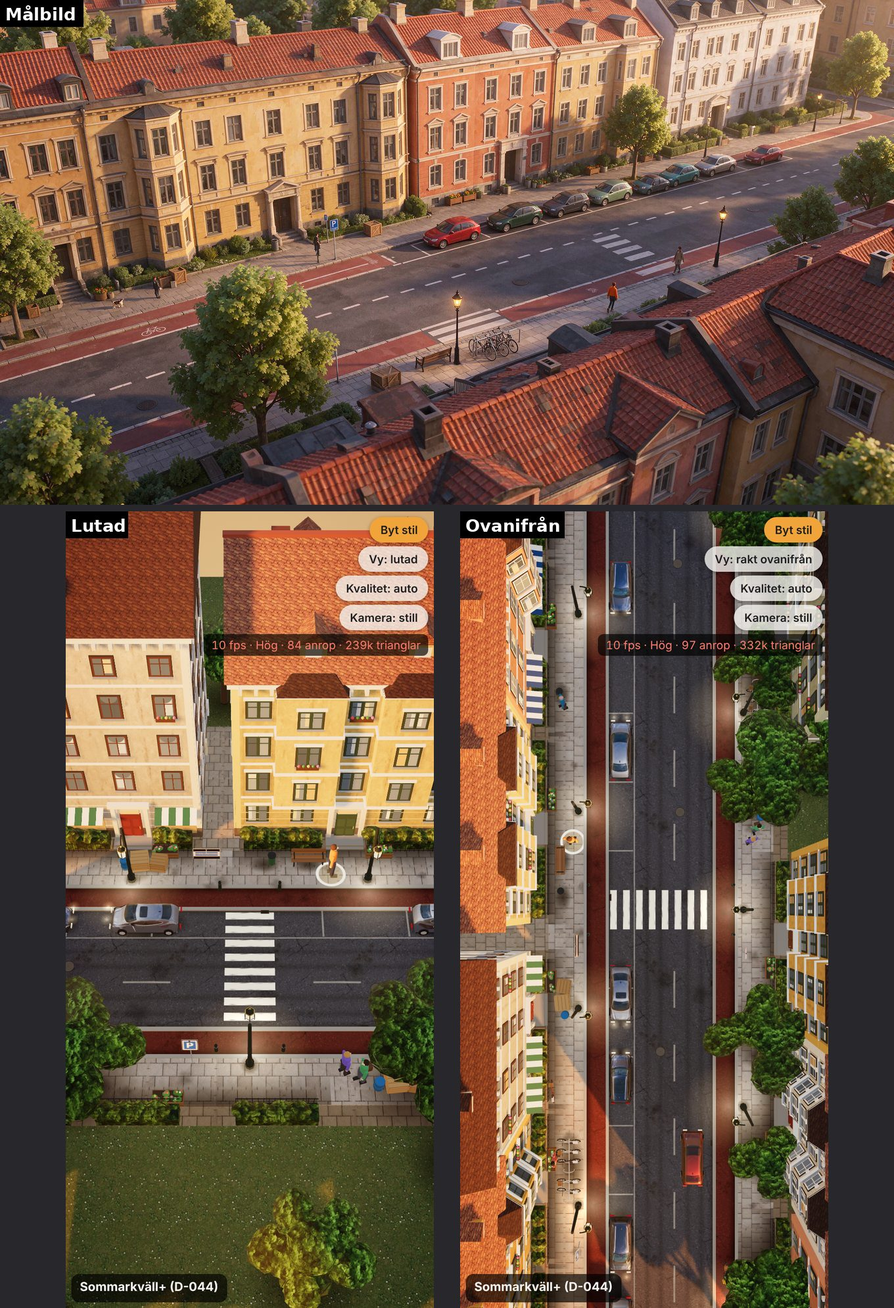
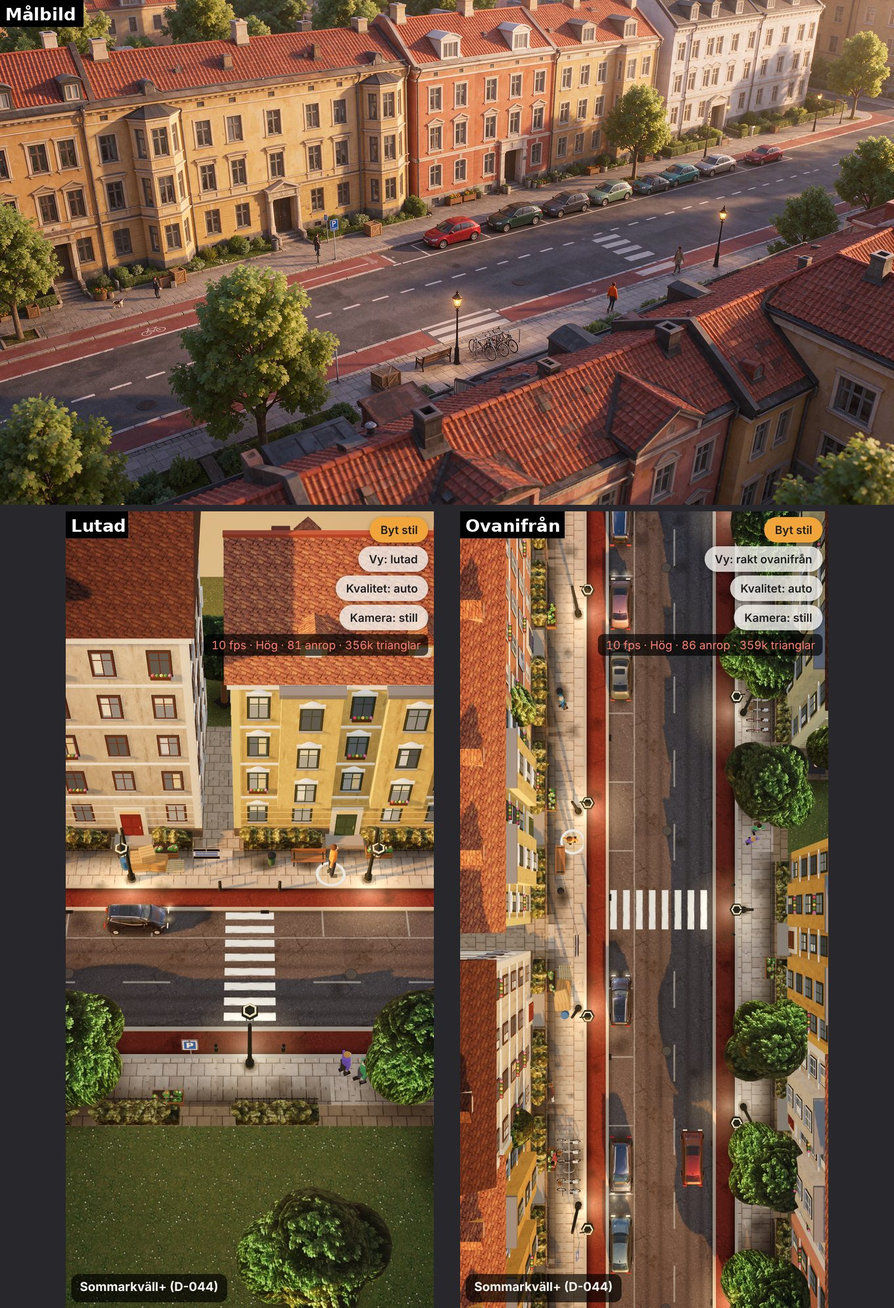
Graphics step 4: faster style test, built trees, deeper houses, golden light (D-047)
- Lighter props and people; triangles down from 357k to 240k. Steady
  frame time at 4x CPU throttle is 4-7 ms median (target under 17 ms).
- Trees built from trunk, branches and leaf clusters, shaded as one
  soft crown (bent normals; texture direction from a separate attribute).
- Angular or box bay windows with metal caps, laid out per house; four
  window types with different lintels; some lit windows; shop awnings;
  portals with pilasters and steps; smaller roof tiles.
- Classic lanterns, green dense hedges, warmer and lower sun, brighter
  fill light, softer shadow edges.
- Step 4 screenshots next to target picture 3, review scores and
  measurements; backlog gets the missing graphics rows and D-048.
- The game itself is unchanged.

Claude-Session: https://claude.ai/code/session_019KYzrBLZRE2h5GG2EY4uYQ

diff --git a/docs/HANDOFF.md b/docs/HANDOFF.md
@@ -39,6 +39,7 @@ Läs det här först, sedan `AGENTS.md` (hänvisning till agentreglerna) och `do
 
 ## Nuläge (2026-11-19)
 
+- **Grafik steg 4 (D-047):** stiltestet (`src/stiltest/rich.js`, `props3.js`) har lättare prylar och personer, träd byggda med stam, grenar och lövklungor som skuggas som en mjuk krona (`treeV2`), gröna täta häckar, klassiska lyktor, kantiga burspråk med plåttak (olika upplägg och form per hus), fyra fönstertyper med olika överstycken och några tända fönster, butiker med markiser, portar med pilastrar och trappsteg, mindre takpannor och mer gyllene sol från sydväst. Prestanda: processortiden per bild med 4× strypning är 4–7 ms i median när allt har laddats (mål under 17 ms); trianglarna minskade från 357 000 till 240 000. Siffran 29–45 ms i steg 3 mättes medan bilderna laddades in; under laddningen ligger det fortfarande kring 29 ms. Tre granskningsomgångar med de fasta kriterierna gav till sist 7, 5, 5, 6 och 6 poäng (mål 8). Hinder: personer, cyklar och träd byggda med kod når inte bilarnas klass, och riktiga CC0-modeller går inte att hämta (Kenney och Poly Pizza svarar 403, Quaternius ligger på Google Drive som inte är öppnat), se D-048. Skärmdumpar sida vid sida med målbilden i `docs/screenshots/stiltest/README.md`. Spelet är inte ändrat.
 - **Grafik steg 3 (D-045):** stiltestet har en lätt lutad kamera (33° från lodrätt, fast vinkel) som förval; rakt ovanifrån finns bakom knappen *Vy*. I lutad vy ritas inte husraden närmast kameran (den kastar fortfarande sin skugga), så gatan syns. Bilar har rundade 3D-kroppar med den genererade bilden ovanpå, hjul, trösklar och lampor; träd i tre sorter (lind, lönn, björk) med rundade kronor och stammar; lyktor, cyklar, cykelställ, skyltar, blomlådor, bänkar, lådor, räcken och personer är nya modeller (`src/stiltest/props3.js`). Fönster har karmar, spröjs, bleck, gardiner och blomlådor; takpannorna är mindre och mönstret bryts upp. Två nya målbilder (`malbild-3.jpg`, `malbild-4.jpg`). Fasta kriterier `docs/screenshots/stiltest/kriterier.md`; tre omgångar gav till sist 7, 5, 6, 5, 7 (mål 8). Start under 6 s uppnådd med små förhandsbilder och WebP, men processortiden per bild har ökat och måste bantas (D-046). Spelet är inte ändrat.
 - **Grafik steg 2 (D-044):** stiltestet har ett nytt förvalt läge, Sommarkväll+ (`src/stiltest/rich.js`, `look.js`), byggt mot en genererad målbild (`docs/screenshots/stiltest/malbild-*.jpg`): genererade texturer (asfalt, plattor, gräs, puts, takpannor, lövverk) och genererade bilar och trädkronor sedda uppifrån (`stiltest/tex/`), låg varm kvällssol med långa mjuka skuggor, inbakad mörkning, slitage, lampor som lyser upp marken, häckar, staket, blomlådor, lådor, cykelställ. De tre tecknade varianterna från D-043 finns kvar bakom knappen. Fem granskningsomgångar: slutpoäng 7, 6, 6, 6, 5 (mål 8). Hinder: (1) från rakt ovanifrån blir fasader och små saker (lyktor, cyklar, skyltar) svåra att läsa, målbilden är tagen snett; (2) målbilden är en fotorealistisk rendering som realtidsgrafik på mobil inte når utan riktiga modeller och färdigräknat ljus; (3) mobilbudgeten: nedladdningen är ungefär fyra gånger större och starten 13–15 s på långsamt nät; (4) granskarnas poäng varierar mellan omgångar. CC0-bibliotek (ambientCG, Poly Haven, Kenney, Quaternius) går inte att nå från arbetsmiljön. Spelet är inte ändrat.
 - **Stiltest (D-043):** https://badbagel47.github.io/fyriskaos/stiltest.html – ett Luthagen-kvarter i Three.js, low-poly och tecknat, i tre varianter (knapp), med fps-mätare och automatiska kvalitetslägen. Allt byggt med kod (`src/stiltest/`), paketerat med esbuild till `stiltest/app.js` (kör `npm run build:stiltest` efter ändringar). Stilbibel `docs/STYLE.md`, credits `CREDITS.md`, skärmdumpar och mätningar `docs/screenshots/stiltest/`. Oberoende granskning gjord och rättad; granskaren rekommenderar variant A. Spelet är inte ändrat. Väntar på ägarens val och prov i mobilen.
@@ -60,7 +61,7 @@ Läs det här först, sedan `AGENTS.md` (hänvisning till agentreglerna) och `do
 ## Engångsåtgärder
 
 - Klart (2026-11-17): GitHub Pages påslaget med källan GitHub Actions.
-- **Klart (2026-11-19): nätverket öppnat för fria bibliotek och kartdata** (ägaren godkände kortet). Nåbara: Poly Haven, ambientCG, Quaternius webbplats, OpenStreetMap-adresserna. Kenney och Poly Pizza svarar 403 till molnet (webbplatsernas egen spärr), Quaternius paket ligger på Google Drive (inte öppnat), Poly Havens träd är för tunga för mobil. Ursprunglig instruktion, för historik: Molnmiljön (som heter *Default*) har begränsat nätverk, och de här adresserna blockeras i dag. Gör så här en gång:
+- **Klart (2026-11-19): nätverket öppnat för fria bibliotek och kartdata** (ägaren godkände kortet). Nåbara: Poly Haven, ambientCG, Quaternius webbplats, OpenStreetMap-adresserna. Kenney och Poly Pizza svarar 403 till molnet (webbplatsernas egen spärr), Quaternius paket ligger på Google Drive (inte öppnat), Poly Havens träd är för tunga för mobil. Kartdata: `overpass-api.de` och `download.geofabrik.de` står i listan men bryter själva anslutningen från molnet (kontrollerat 2026-11-19); en annan spegel eller en kartfil som laddas upp behövs för F-005. Ursprunglig instruktion, för historik: Molnmiljön (som heter *Default*) har begränsat nätverk, och de här adresserna blockeras i dag. Gör så här en gång:
   1. Öppna sessionen i Claude-appen eller på https://claude.ai/code och tryck på miljöns namn *Default* i sessionens titelrad, sedan **Edit** (redigera).
   2. Under **Network access**, låt nivån vara **Limited** och låt rutan för pakethanterare (*Allow package managers*) vara ikryssad.
   3. Lägg till var och en av adresserna nedan under **Allowed domains** (en per rad):

diff --git a/docs/BACKLOG.md b/docs/BACKLOG.md
@@ -8,6 +8,8 @@ ID: en löpande serie, B- bugg, F- funktion, D- planering/design. Prioritet: Hö
 
 | ID | Prio | Status | Beskrivning |
 | --- | --- | --- | --- |
+| F-042 | Hög | Öppen | Spelet ritas i stilen från stiltestet (Sommarkväll+ med lutad kamera, D-047), med samma mobilkrav. |
+| D-048 | Medel | Öppen | Riktiga CC0-modeller för träd, personer och cyklar (Quaternius), för att nå 8 på träd och jämn detaljnivå. Kräver att Google Drive öppnas i nätverket (`drive.google.com`, `drive.usercontent.google.com`). |
 | F-005 | Medel | Öppen | Första riktiga området: centrum kring Fyrisån och Slottsbacken från OpenStreetMap, med vårdcentral, polis och ett första uppdrag. |
 | F-010 | Medel | Öppen | Seed: hela staden utgår från ett startnummer, så att båda spelarna får exakt samma stad. |
 | F-011 | Medel | Öppen | Död och vårdcentraler: återuppstå på en vårdcentral mot en kostnad, stjärnorna nollställs, kölapp med "Beräknad väntetid: 4 sek". I co-op ligger man först nere några sekunder och kan räddas. |
@@ -46,20 +48,28 @@ ID: en löpande serie, B- bugg, F- funktion, D- planering/design. Prioritet: Hö
 Ögonblicksbild; varje agent bygger sitt eget förslag från backloggen.
 
 - Prioriterat för: ägarens önskemål först, sedan designdokumentets plan.
-- **A** – starkaste modellen, hög nivå – Grafiken i spelet – bygger på D-043
-  - F-042 – Spelet ritas i den valda stilen från stiltestet, med samma mobilkrav.
-  - Fråga: Vilken variant i stiltestet? Rekommendation (också granskarens): A – Klassisk tecknad.
-- **B** – starkaste modellen, hög nivå – Första riktiga området – bygger på A – väntar på att kartdata går att hämta
+- **A** – starkaste modellen, hög nivå – Grafiken i spelet – bygger på D-047
+  - F-042 – Spelet ritas i stilen från stiltestet: Sommarkväll+ med lutad kamera, samma mobilkrav.
+  - Fråga: Räcker grafiken i stiltestet nu (granskarna gav 5–7 mot målet 8), eller först riktiga modeller (D-048)? Rekommendation: för in stilen i spelet nu och byt modeller senare.
+- **B** – starkaste modellen, hög nivå – Riktiga modeller – kan köras före eller efter A
+  - D-048 – Träd, personer och cyklar från Quaternius (CC0), med licens i credits.
+  - Fråga: Får nätverket öppnas för Google Drive? Rekommendation: ja, bara de två adresserna.
+- **C** – starkaste modellen, hög nivå – Första riktiga området – bygger på A – kartdata går ännu inte att hämta (servrarna bryter anslutningen från molnet)
   - F-005 – Bygg centrum kring Fyrisån och Slottsbacken med vårdcentral, polis och ett första uppdrag.
   - F-011, F-023, F-028 – Vårdcentral, pil till målet, credits.
   - Fråga: Vilka stadsdelar i första versionen? Rekommendation: bara centrum kring ån och Slottsbacken.
-- **C** – starkaste modellen, hög nivå – Två spelare – bygger på B
+- **D** – starkaste modellen, hög nivå – Två spelare – bygger på C
   - F-006, F-026, F-027, F-035 – co-op via network-kit, gemensam uppdragsstart, återanslutning, integritetstext.
 
 ## Klart
 
 | ID | Klart | Beskrivning |
 | --- | --- | --- |
+| D-047 | 2026-11-19 | Grafik steg 4 i stiltestet: processortiden under 17 ms med 4× strypning (median 4–7 ms), träd med stam och grenar, hus med kantiga burspråk, fönstertyper per hus, klassiska lyktor, gröna häckar och mer gyllene kvällsljus. Granskarna gav till sist 7, 5, 5, 6 och 6 poäng; målet 8 nåddes inte. |
+| D-046 | 2026-11-19 | Prestanda i stiltestet: ingår i D-047. |
+| D-045 | 2026-11-19 | Grafik steg 3: lutad kamera som förval, detaljerade prylar, 3D-bilar och 3D-träd, fasta granskningskriterier. |
+| D-044 | 2026-11-18 | Grafik steg 2: läget Sommarkväll+ i stiltestet, byggt mot en genererad målbild. |
+| D-043 | 2026-11-18 | Grafik steg 1: stiltest med Three.js i tre varianter (`stiltest.html`), stilbibel `docs/STYLE.md`. |
 | D-001 | 2026-11-17 | Designdokumentet (`docs/design.md`). |
 | F-033 | 2026-11-17 | Tre biltyper: småbil (cirka 70 km/h, svängig), vanlig bil (cirka 90 km/h) och sportbil (cirka 120 km/h, snabb från start, sällsynt). Namn och fart visas i hörnet (v0.2.0). |
 | F-034 | 2026-11-17 | Handbromssväng: håll bromsen och dra åt sidan i fart, så sladdar bilen runt med däckspår och behåller farten (v0.2.0). |

diff --git a/docs/STYLE.md b/docs/STYLE.md
@@ -85,6 +85,14 @@ Begränsad: sex fasadfärger, tre takfärger, fasta färger för mark, metall oc
 - **Bilder:** WebP; små förhandsbilder laddas först, fullstora efteråt.
 - **Granskning:** fasta kriterier i `docs/screenshots/stiltest/kriterier.md`.
 
+## Steg 4: prestanda, träd, hus och ljus (D-047)
+
+- **Träd:** stam och 5–6 grenar med två lövklungor var, plus en topp. Klungornas ljusnormaler böjs mot riktningen från kronans mitt, så att kronan skuggas som en mjuk form; lövbildens riktning tas från ytans riktiga normal (`mapNormal`). Ljus topp, mörkare undersida och insida. Två former per sort, ritade med instancing, olika storlek (0,75–1,25).
+- **Hus:** burspråk är kantiga (tre sidor) eller raka lådor, med plåttak och en list per våning; upplägget skiljer mellan husen. Varje hus har en fönstertyp (tvåluftsfönster, parfönster, rundbåge, högt fönster) och ett överstycke (fronton, list, slutsten eller inget). Översta våningen har lägre fönster. Ungefär vart tionde fönster är tänt. Butiker har breda skyltfönster och randiga markiser.
+- **Lyktor:** klassisk lykta med tak, guldring, sexkantigt glas och en kula på toppen; taket är mindre än glaset så att ljuset syns uppifrån.
+- **Ljus:** sol 0xffa848, styrka 8,2, från sydväst och lågt; himmelsljus 0xb4b0c0 och mark 0x7a5434, styrka 0,85; skuggor med mjukare kant.
+- **Budget:** cirka 240 000 trianglar och 88 anrop på Hög.
+
 ## Prestanda (mobil från start)
 
 - **Mål:** 60 bilder per sekund på en vanlig mellanklass-Android, aldrig under 30.
@@ -92,7 +100,7 @@ Begränsad: sex fasadfärger, tre takfärger, fasta färger för mark, metall oc
 - **Upplösning:** pixel ratio högst 2.
 - **Kvalitetslägen:** Låg (pixel ratio 1, inga skuggor), Medel (1,5, skuggor 1024), Hög (2, skuggor 2048). Auto går ner ett steg om det blir under 50 bilder per sekund i en sekund, och upp igen efter 8 sekunder på 59 eller mer om det inte gått ner de senaste 20 sekunderna.
 - **Snabb start:** inga modellfiler att ladda; hela stiltestet (Three.js och egen kod) är ett komprimerat paket på cirka 145 kB.
-- **Mätt i molnet** 2026-11-18, se `docs/screenshots/stiltest/README.md`.
+- **Mätt i molnet** 2026-11-18 och 2026-11-19 (steg 4: 4–7 ms per bild med 4× strypning, efter laddningen), se `docs/screenshots/stiltest/README.md`.
 
 ## Arbetssätt
 
